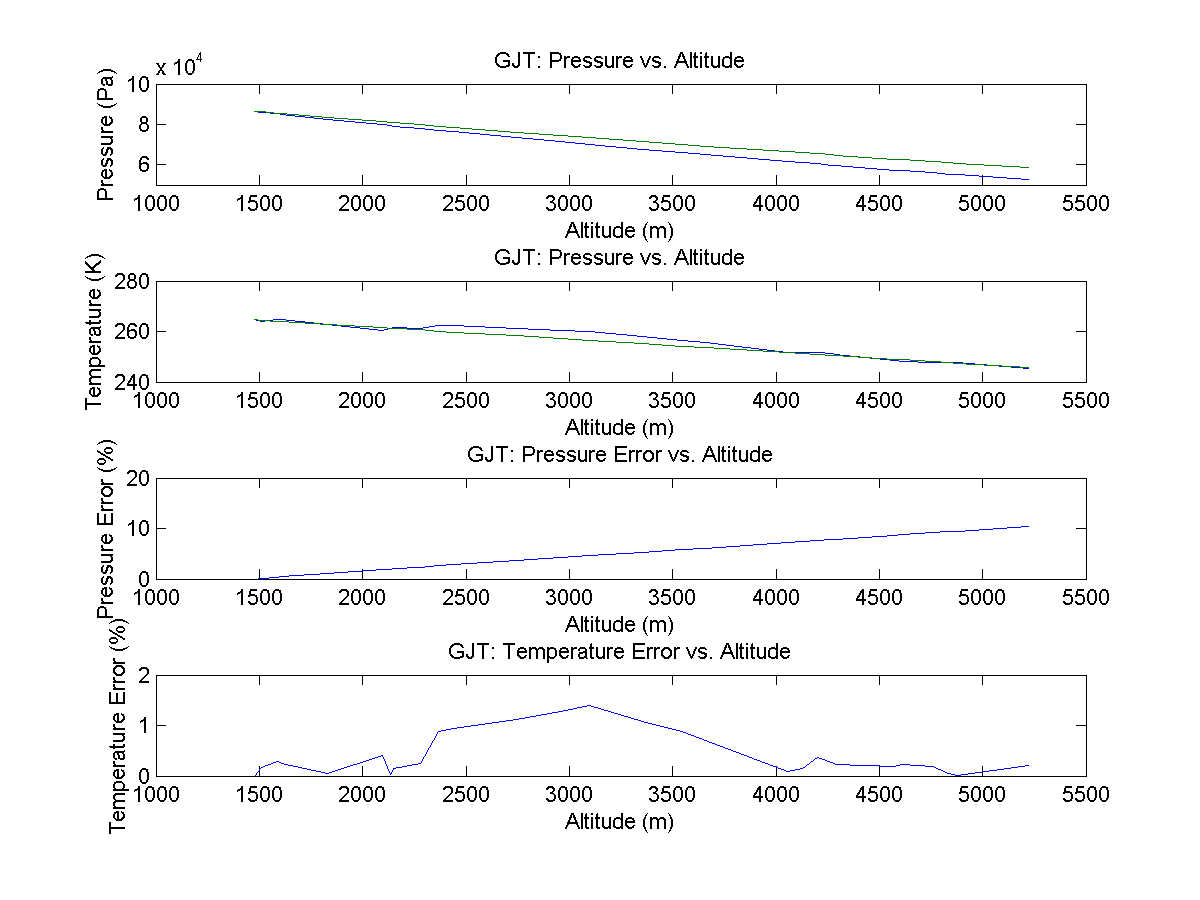
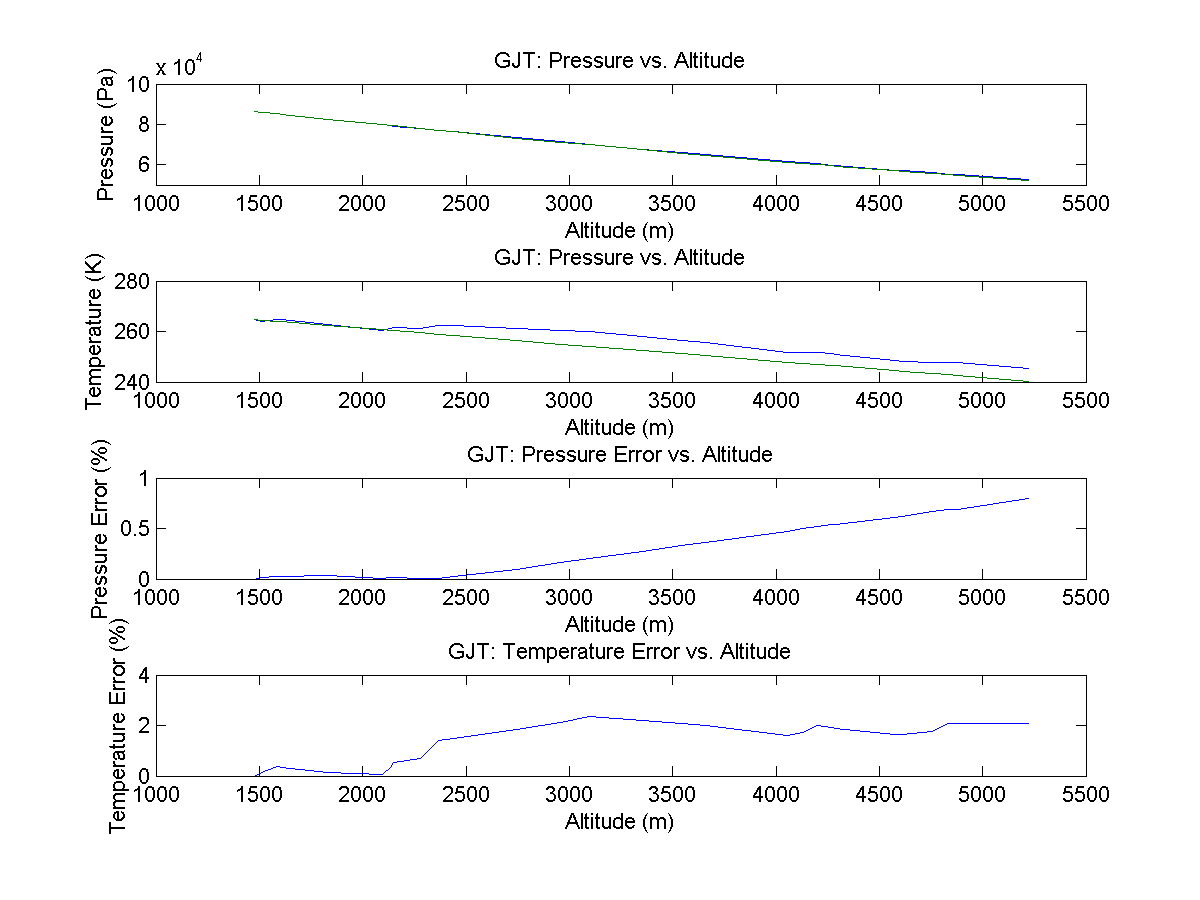
Removed shifting lapse rate
Change improves accuracy. Plots were regenerated

Changed region(s): [[0.0617, 0.4978, 0.1233, 0.6844]]

diff --git a/functions/environment/ISAModel.m b/functions/environment/ISAModel.m
@@ -54,7 +54,7 @@ LR = (T_in - 216.65)/(11000 - alt_in);
 %   alt_in  = Launch altitude (meters)
 %--------------------------------------------------------------------------
 
-T_dev   = T_in + LR * alt_in - T_o;
+T_dev   = T_in + 0.0065 * alt_in - T_o;
 
 %--------------------------------------------------------------------------
 % The following calculates the temperature at the current altitude.
@@ -64,7 +64,7 @@ T_dev   = T_in + LR * alt_in - T_o;
 %   alt_act = Altitude above ground level (m)
 %--------------------------------------------------------------------------
 
-T_act   = (T_o + T_dev) - (LR)*(alt_in + alt_act);
+T_act   = (T_o + T_dev) - (0.0065)*(alt_in + alt_act);
     
 %--------------------------------------------------------------------------
 % The following recalculates the pressure in terms of ISA deviation.
@@ -74,7 +74,7 @@ T_act   = (T_o + T_dev) - (LR)*(alt_in + alt_act);
 %   A       = placeholder for calculation
 %--------------------------------------------------------------------------
 
-A       = (1 - LR*(alt_in/(T_o + T_dev)))^5.2561;
+A       = (1 - 0.0065*(alt_in/(T_o + T_dev)))^5.2561;
 
 P_dev   = (P_in/A) - P_o;
     
@@ -84,7 +84,7 @@ P_dev   = (P_in/A) - P_o;
 %   P_act   = actual pressure at current altitude (Pascals)
 %--------------------------------------------------------------------------
 
-P_act   = (P_o + P_dev)*((1-LR*((alt_in+alt_act)/(T_o + T_dev)))^5.2561);
+P_act   = (P_o + P_dev)*((1-0.0065*((alt_in+alt_act)/(T_o + T_dev)))^5.2561);
     
 %--------------------------------------------------------------------------
 % The following calculates the air density at the current altitude.
